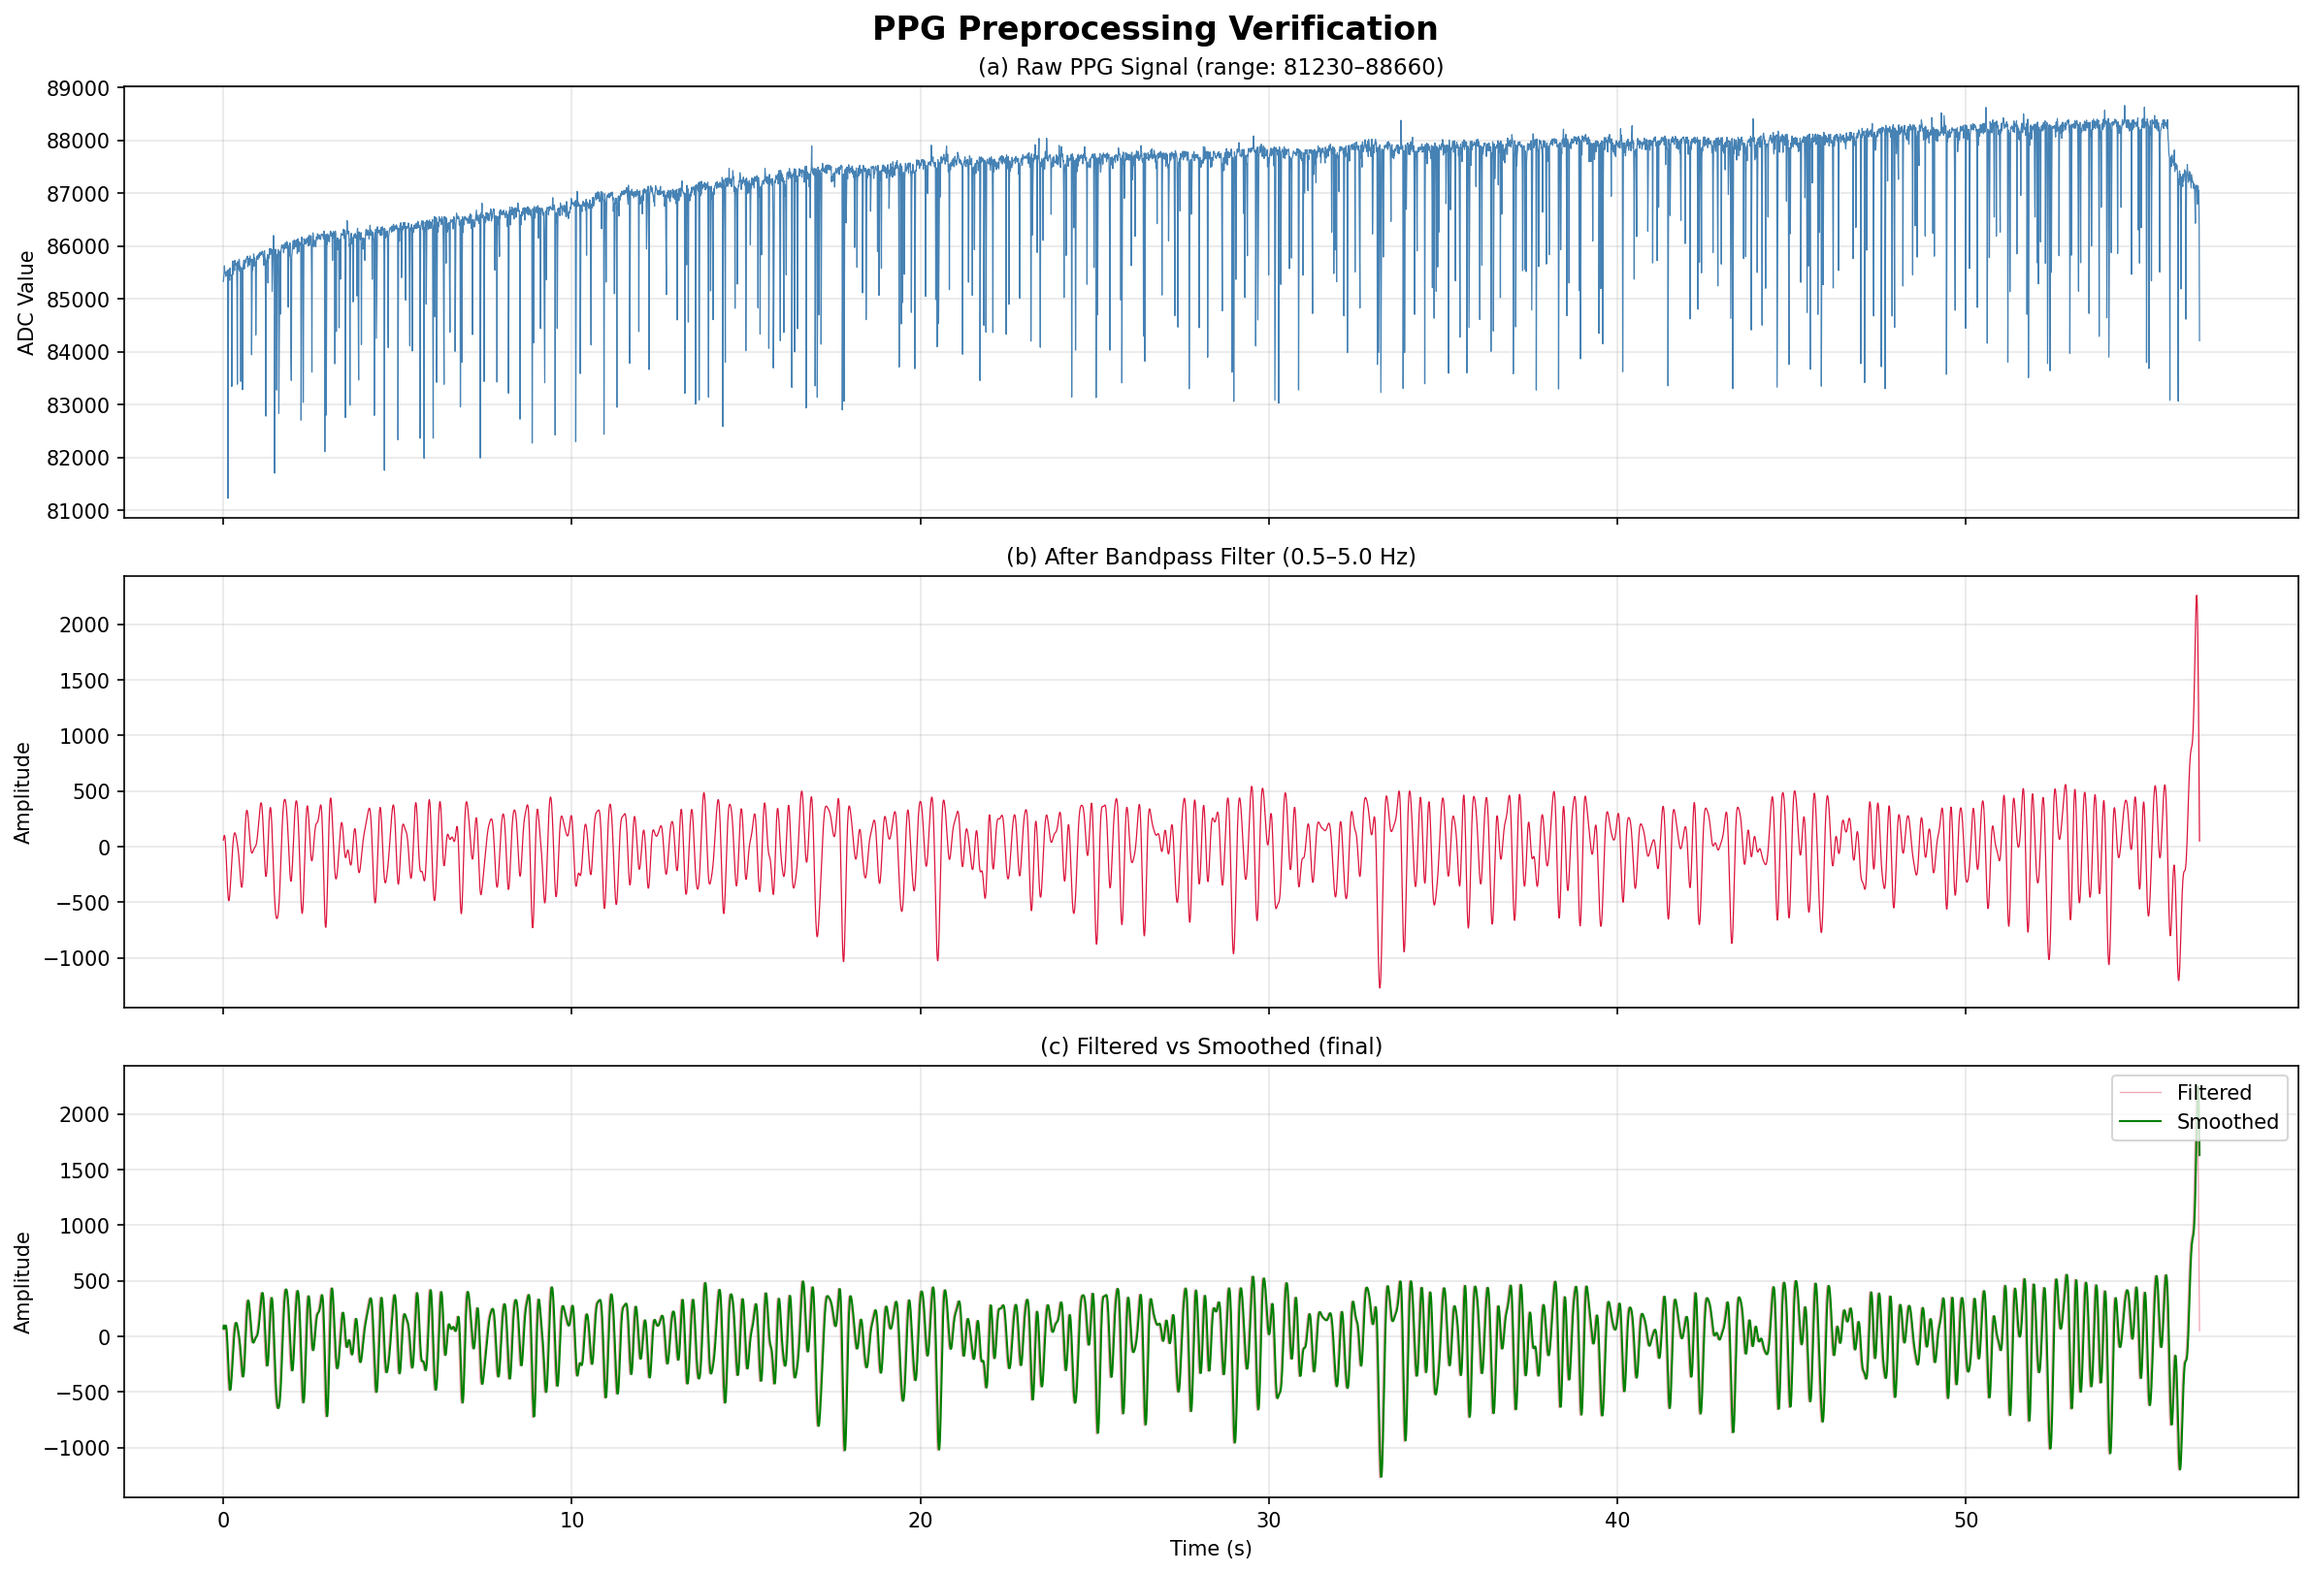
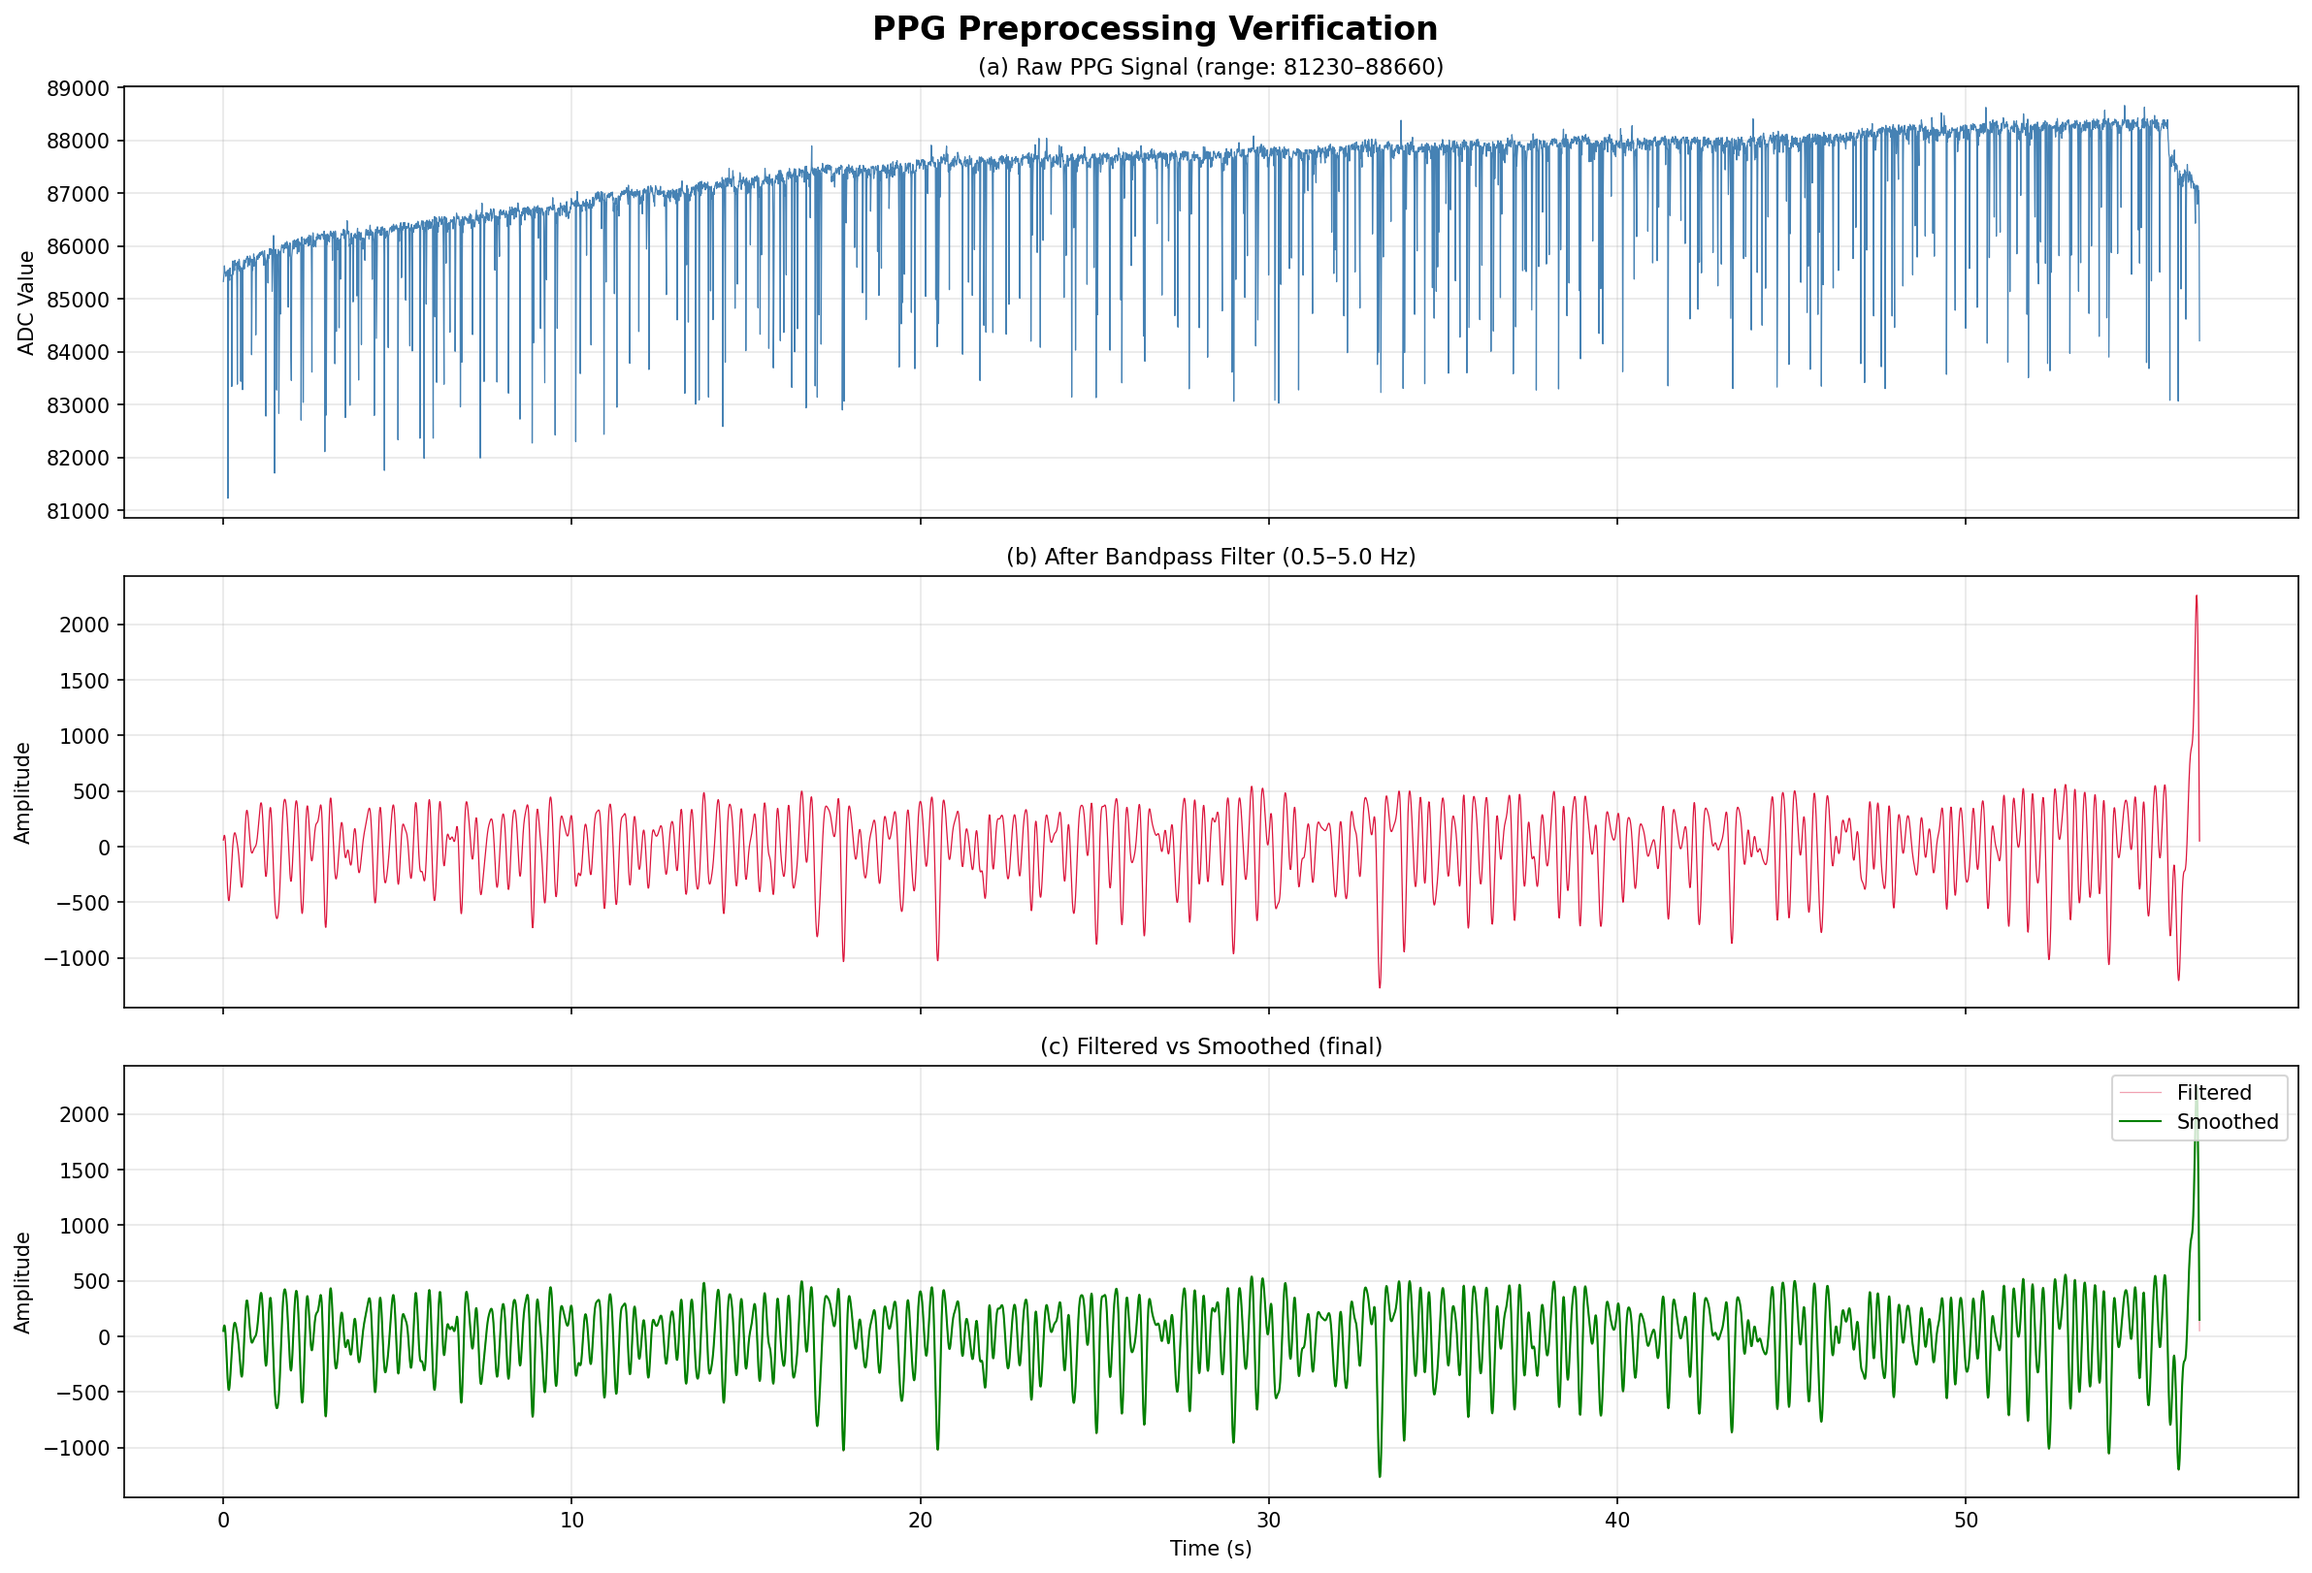
fix eval

Changed region(s): [[0.0932, 0.8015, 0.9627, 0.9248]]

diff --git a/main.py b/main.py
@@ -23,7 +23,7 @@ import numpy as np
 import pandas as pd
 import matplotlib.pyplot as plt
 import matplotlib.gridspec as gridspec
-from scipy.signal import butter, filtfilt, find_peaks
+from scipy.signal import butter, filtfilt, find_peaks, windows
 
 # ─── vital_sqi imports ──────────────────────────────────────────────
 from vital_sqi.preprocess.preprocess_signal import smooth_signal, taper_signal
@@ -63,7 +63,7 @@ warnings.filterwarnings("ignore")
 # ════════════════════════════════════════════════════════════════════
 # 0. Load & inspect raw data (bypass PPG_reader for correct sampling rate)
 # ════════════════════════════════════════════════════════════════════
-file_in = os.path.abspath("Raw_data.csv")
+file_in = os.path.abspath("/Users/lijiye/coding/zig_bt_client/Raw_data.csv")
 
 # Read CSV directly — PPG_reader's calculate_sampling_rate uses min(diff)
 # which picks up timestamp jitter (1ms) → bogus 1001 Hz
@@ -108,9 +108,7 @@ print("\n" + "─" * 70)
 print("1. Signal Preprocessing")
 print("─" * 70)
 
-# Step 1a: Bandpass filter (0.5 – 5 Hz) — isolate PPG heart rate band
-# No need to manually remove DC offset — bandpass inherently rejects DC (0 Hz)
-# Using 5 Hz highcut (not 8 Hz) to match PPG physiological range (0.5-4 Hz)
+# Step 1a: Bandpass filter (0.5 – 5 Hz) — isolate PPG heart rate band using scipy
 lowcut, highcut = 0.5, 5.0
 nyq = 0.5 * sampling_rate
 b, a = butter(4, [lowcut / nyq, highcut / nyq], btype="band")
@@ -118,17 +116,18 @@ filtered_signal = filtfilt(b, a, raw_signal)
 print(f"  [1a] Bandpass      : {lowcut}–{highcut} Hz, 4th order Butterworth")
 print(f"       Filtered range: [{filtered_signal.min():.2f}, {filtered_signal.max():.2f}]")
 
-# Step 1c: Smoothing (Hanning window)
-smoothed_signal = smooth_signal(filtered_signal, window_len=5, window="hanning")
-smoothed_signal = smoothed_signal[:N]
-print(f"  [1b] Smoothing     : Hanning window, len=5")
+# Step 1c: Smoothing — Optional mild smoothing to reduce high-frequency noise without distortion
+window_len = 5
+hanning_window = np.hanning(window_len)
+smoothed_signal = np.convolve(filtered_signal, hanning_window / hanning_window.sum(), mode='same')
+print(f"  [1b] Smoothing     : Hanning window, len={window_len} (scipy convolve)")
 
-# Step 1d: Tapering (for template matching)
-tapered_signal = taper_signal(smoothed_signal)
-print(f"  [1c] Tapering      : Tukey window (for DTW template matching)")
+# Step 1d: Tapering — Optional tapering using a simple Tukey window 
+tapered_signal = smoothed_signal * windows.tukey(N, alpha=0.1)
+print(f"  [1c] Tapering      : Tukey window (scipy)")
 
 # The main processed signal for analysis
-processed_signal = filtered_signal
+processed_signal = smoothed_signal
 
 # Preprocessing quality checks
 snr_check = np.std(processed_signal) / np.std(processed_signal - smoothed_signal) if np.std(processed_signal - smoothed_signal) > 0 else float('inf')
@@ -186,7 +185,7 @@ standard_results = {}
 standard_results["Kurtosis"] = kurtosis_sqi(processed_signal)
 standard_results["Skewness"] = skewness_sqi(processed_signal)
 standard_results["Entropy"] = entropy_sqi(processed_signal)
-standard_results["SNR"] = signal_to_noise_sqi(processed_signal)
+standard_results["SNR"] = signal_to_noise_sqi(raw_signal)
 standard_results["Perfusion Index (%)"] = perfusion_sqi(raw_signal, processed_signal)
 standard_results["Zero Crossing Rate"] = zero_crossings_rate_sqi(processed_signal)
 standard_results["Mean Crossing Rate"] = mean_crossing_rate_sqi(processed_signal)
@@ -198,74 +197,20 @@ for name, val in standard_results.items():
 # 3. Peak Detection
 # ════════════════════════════════════════════════════════════════════
 print("\n" + "─" * 70)
-print("3. Peak Detection")
+print("3. Peak Detection (Scipy)")
 print("─" * 70)
 
-detector = PeakDetector(wave_type="ppg", fs=sampling_rate)
+# Detect valleys (troughs) by finding peaks in the inverted signal to use as primary fiducials
+# Set minimum distance to 0.3s (max heart rate ~ 200 bpm)
+min_dist = int(sampling_rate * 0.3)
+peaks, _ = find_peaks(-processed_signal, distance=min_dist, prominence=np.std(processed_signal)*0.5)
 
-# Try multiple detectors and pick the best result
-detector_types = {
-    1: "Adaptive Threshold",
-    2: "Count Orig",
-    3: "Clusterer",
-    4: "Slope Sum",
-    5: "Moving Average",
-    6: "Scipy Default",
-    7: "Billauer",
-}
+# Detect actual physical peaks
+troughs, _ = find_peaks(processed_signal, distance=min_dist, prominence=np.std(processed_signal)*0.5)
 
-def _score_detector(p, t, sr, label):
-    """Score a peak detector result by physiological plausibility."""
-    n_peaks, n_troughs = len(p), len(t)
-    score, hr_est = 0, 0
-    if n_peaks > 2:
-        rr_ms = np.diff(p) * (1000 / sr)
-        hr_est = 60000 / np.mean(rr_ms)
-        rr_cv = np.std(rr_ms) / np.mean(rr_ms) if np.mean(rr_ms) > 0 else 999
-        # Continuous HR scoring: ideal range 50-150 bpm, penalize deviation
-        if 50 <= hr_est <= 150:
-            score += 100
-        elif 40 <= hr_est <= 180:
-            score += 70
-        elif 30 <= hr_est <= 200:
-            score += 30
-        # Bonus for troughs (needed for DTW, beat extraction)
-        if n_troughs > 0:
-            score += 20
-        # Lower RR variability = more consistent detection
-        score += max(0, 30 - rr_cv * 30)
-        score += min(n_peaks / 10, 5)
-    status = f"HR≈{hr_est:.0f}bpm, score={score:.0f}" if n_peaks > 2 else "too few"
-    print(f"    {label:30s}: {n_peaks} peaks, {n_troughs} troughs ({status})")
-    return score, hr_est
-
-best_peaks, best_troughs, best_name, best_score = [], [], "None", -1
-print("  Trying multiple peak detectors:")
-
-# vital_sqi detectors
-for dt_id, dt_name in detector_types.items():
-    try:
-        p, t = detector.ppg_detector(processed_signal, detector_type=dt_id)
-        score, _ = _score_detector(p, t, sampling_rate, f"[{dt_id}] {dt_name}")
-        if score > best_score:
-            best_peaks, best_troughs, best_name, best_score = list(p), list(t), dt_name, score
-    except Exception as e:
-        print(f"    [{dt_id}] {dt_name:25s}: Error - {e}")
-
-# Additional: scipy find_peaks with physiological min distance
-# Min distance = 0.3s (max 200 bpm), find both peaks and troughs
-min_dist = int(sampling_rate * 0.3)  # 200 bpm max
-sp_peaks, _ = find_peaks(processed_signal, distance=min_dist)
-sp_troughs, _ = find_peaks(-processed_signal, distance=min_dist)
-score, _ = _score_detector(sp_peaks, sp_troughs, sampling_rate, "[+] Scipy find_peaks (d=0.3s)")
-if score > best_score:
-    best_peaks, best_troughs, best_name, best_score = list(sp_peaks), list(sp_troughs), "Scipy find_peaks", score
-
-peaks = np.array(best_peaks)
-troughs = np.array(best_troughs)
-print(f"\n  ✓ Best detector : {best_name}")
-print(f"  Peaks detected  : {len(peaks)}")
-print(f"  Troughs detected: {len(troughs)}")
+print(f"  ✓ Best detector : Scipy find_peaks (using valleys, d={min_dist/sampling_rate:.2f}s)")
+print(f"  Valleys detected (used as peaks): {len(peaks)}")
+print(f"  Peaks detected (used as troughs): {len(troughs)}")
 
 rr_intervals = np.array([])
 if len(peaks) > 1:
@@ -577,14 +522,14 @@ for seg_idx in range(n_segments):
     seg_result["kurtosis"] = kurtosis_sqi(seg)
     seg_result["skewness"] = skewness_sqi(seg)
     seg_result["entropy"] = entropy_sqi(seg)
-    seg_result["snr"] = signal_to_noise_sqi(seg)
+    seg_result["snr"] = signal_to_noise_sqi(raw_signal[start:end])
     seg_result["zcr"] = zero_crossings_rate_sqi(seg)
     seg_result["mcr"] = mean_crossing_rate_sqi(seg)
     seg_result["perfusion"] = perfusion_sqi(raw_signal[start:end], seg)
 
-    # Peak-based per segment
+    # Valley-based per segment
     try:
-        seg_peaks, seg_troughs = detector.ppg_detector(seg, detector_type=1)
+        seg_peaks, _ = find_peaks(-seg, distance=min_dist, prominence=np.std(seg)*0.5)
         seg_result["n_peaks"] = len(seg_peaks)
         if len(seg_peaks) > 2:
             seg_rr = np.diff(seg_peaks) * (1000 / sampling_rate)
@@ -640,10 +585,10 @@ ax2 = fig.add_subplot(gs[1, :])
 ax2.plot(time_axis, processed_signal, linewidth=0.8, color="steelblue", label="Filtered PPG")
 if len(peaks) > 0:
     ax2.scatter(np.array(peaks) / sampling_rate, processed_signal[peaks],
-                color="red", s=20, zorder=5, label=f"Peaks ({len(peaks)})")
+                color="red", s=20, zorder=5, label=f"Valleys ({len(peaks)})")
 if len(troughs) > 0:
     ax2.scatter(np.array(troughs) / sampling_rate, processed_signal[troughs],
-                color="green", s=15, zorder=5, label=f"Troughs ({len(troughs)})")
+                color="green", s=15, zorder=5, label=f"Peaks ({len(troughs)})")
 ax2.set_title("Peak Detection Results", fontsize=14, fontweight="bold")
 ax2.set_xlabel("Time (s)")
 ax2.set_ylabel("Amplitude")

diff --git a/fuck.py b/fuck.py
@@ -5,7 +5,7 @@ from scipy.signal import butter, filtfilt
 
 # 1. 讀取資料
 # 注意：CSV 標頭可能有空格，將其去除
-df = pd.read_csv('Raw_data.csv')
+df = pd.read_csv('/Users/lijiye/coding/zig_bt_client/Raw_data.csv')
 df.columns = df.columns.str.strip()
 
 # 取得 raw signal
